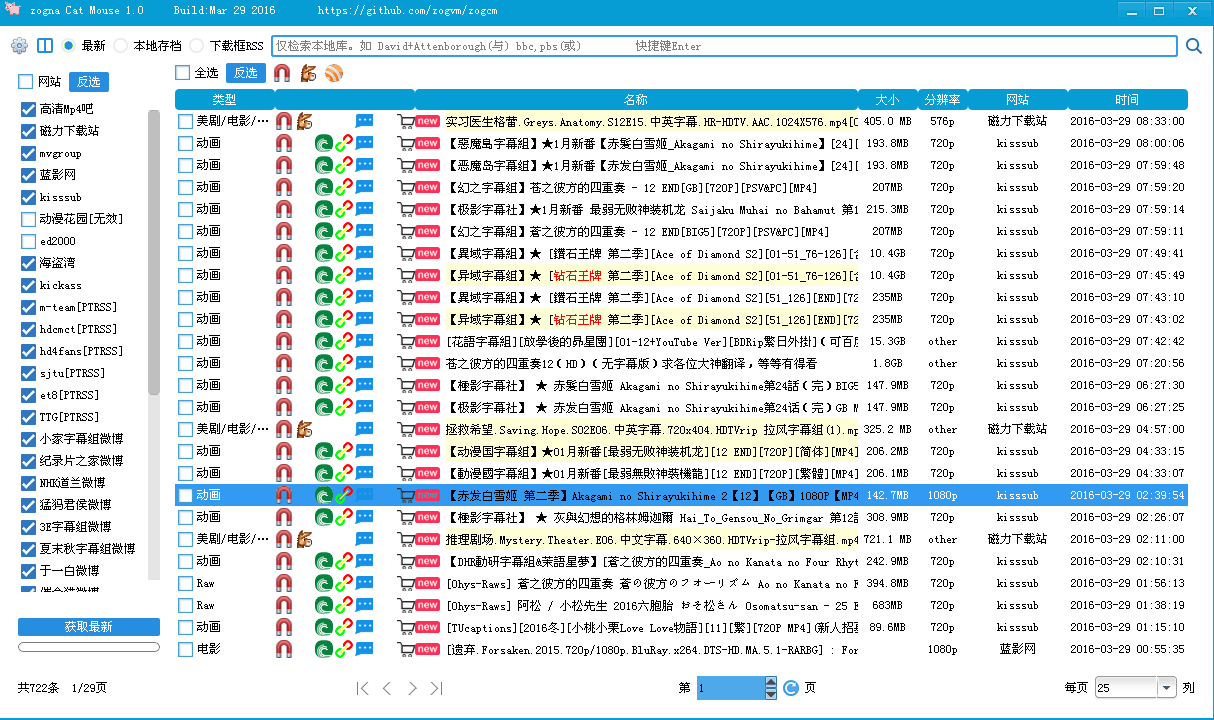
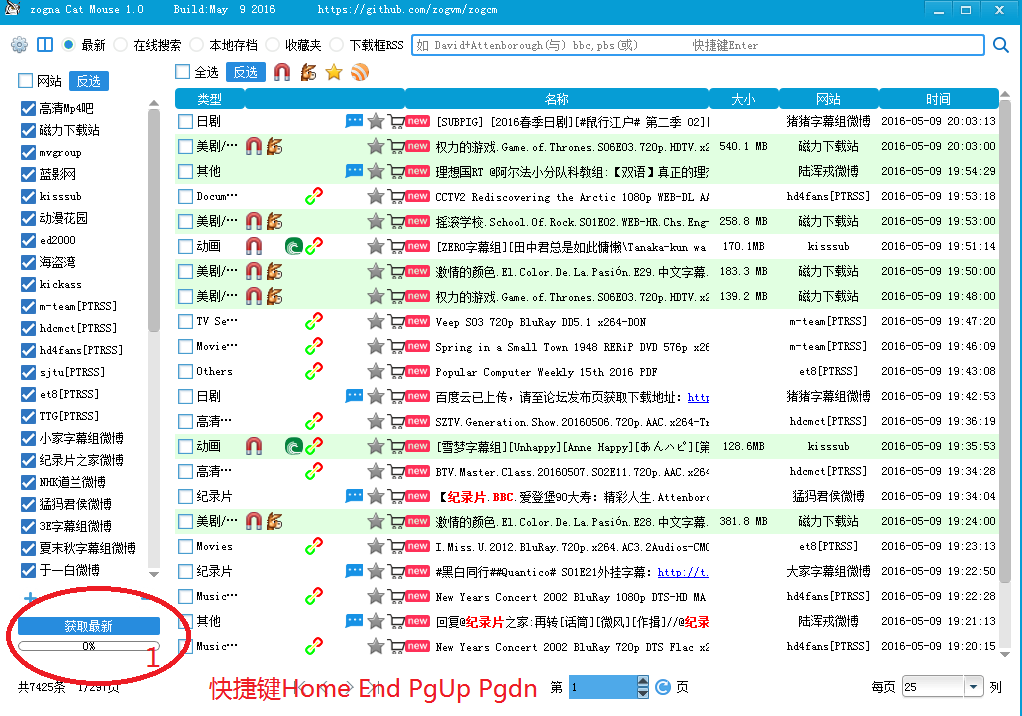
1.0

diff --git a/README.md b/README.md
@@ -4,8 +4,11 @@
 ###建议，QQ群：193585959
 
 * 暂时仅支持 XP,WIN7，WIN8，WIN10
-* 软件无毒无广告无后台，也不插入任何的软件。如果你下载的不是这样的，请务必小心。
-* 软件免费，也不接受任何捐款，除非我特别特别的困难了。当然，有工作可以介绍给我，不爱加班。谢谢~
+* 如果您患有下载综合征，音视频囤积症。该软件就是您的福音！
+
+## 声明
+* 软件**无毒无广告无后台，也不插入任何的软件**。如果你下载的不是这样的，请务必小心。
+* 软件**免费，也不接受任何捐款**，除非我特别特别的困难了。当然，有工作可以介绍给我，不爱加班。谢谢~
 * 把软件嵌广告，流氓软件，收费，任意修改等行为。俺从内心深处鄙视你们,宁愿在三线城市工作也不去你们公司。
 
 ### 软件前身
@@ -32,6 +35,13 @@
 * 写这个软件就知道我有多懒了。。所以界面依然使用zogvm的界面。一如既往的丑
 * 很多人觉得丑，如果你是美工，就快来帮帮我吧。。不然就别BB了。
 
+##视频搜寻系统 zogcm 特性(1.0)
+* 1.定时获取最新视频资源
+* 2.支持自定义字符高亮标记和收藏
+* 3.支持自定义的微博追踪
+* 4.支持在线/本地搜索
+
+
 ## 快速入门
 * 1. 管理员权限运行 zogc.exe
 * 2. 点击左下角的“获取最新”按钮，最多等待2分钟。
@@ -50,10 +60,7 @@
 * 我其实很喜欢这些网站，没什么流氓广告，也很新，所以我才会收录进来。大家没事可以多去点网站，支持下。谢谢。
 
 
-##目前内测中，暂时未公开，如需一起测试，请加群
-
-
-###扩展资源：
+### 扩展资源：
 * 人人更新到2016.05.06日 第99601号
 * TW版国家地理更新到2016.03.06日
 * 蓝影网更新到2016.03.29日
@@ -66,7 +73,7 @@
 * 动漫花园更新到2016.04.20日
 
 
-##内测图
+## 界面
 
  ![image](https://raw.githubusercontent.com/zogvm/zogcm/master/preview1.png)
  ![image](https://raw.githubusercontent.com/zogvm/zogcm/master/preview2.png)
